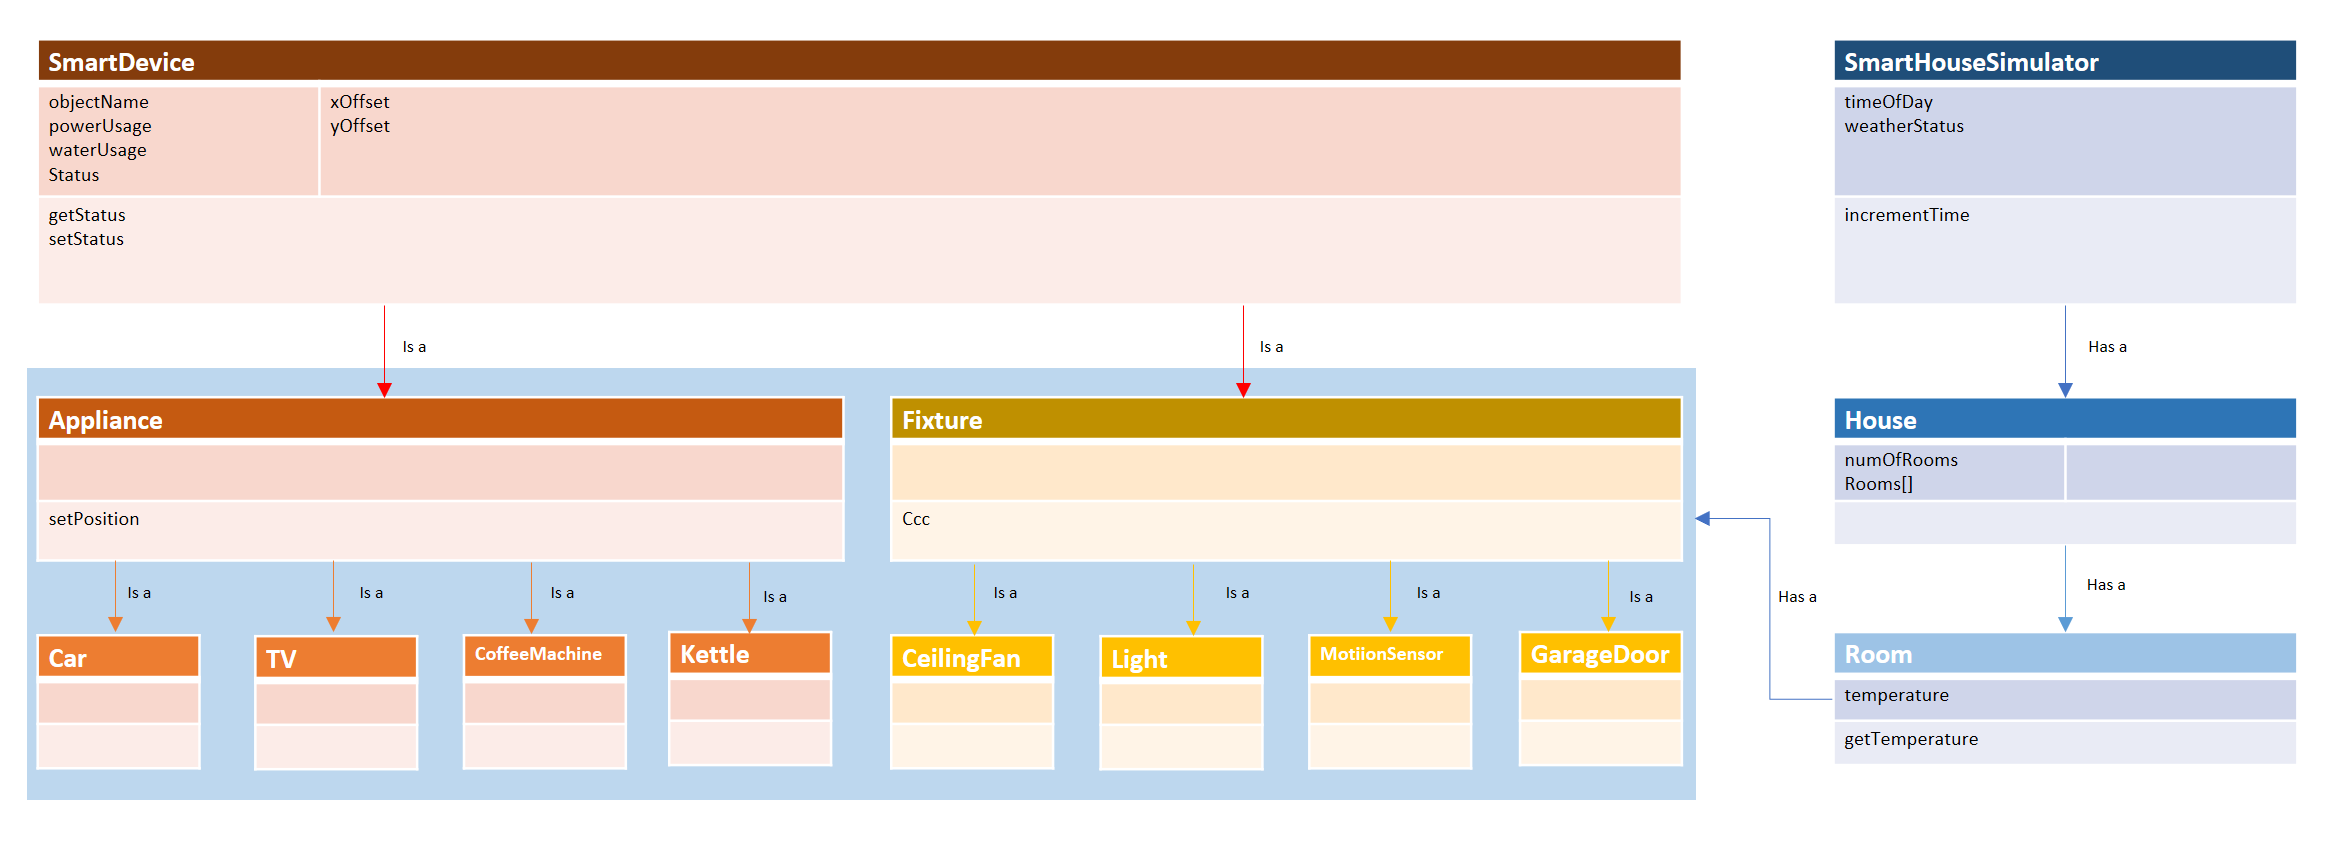
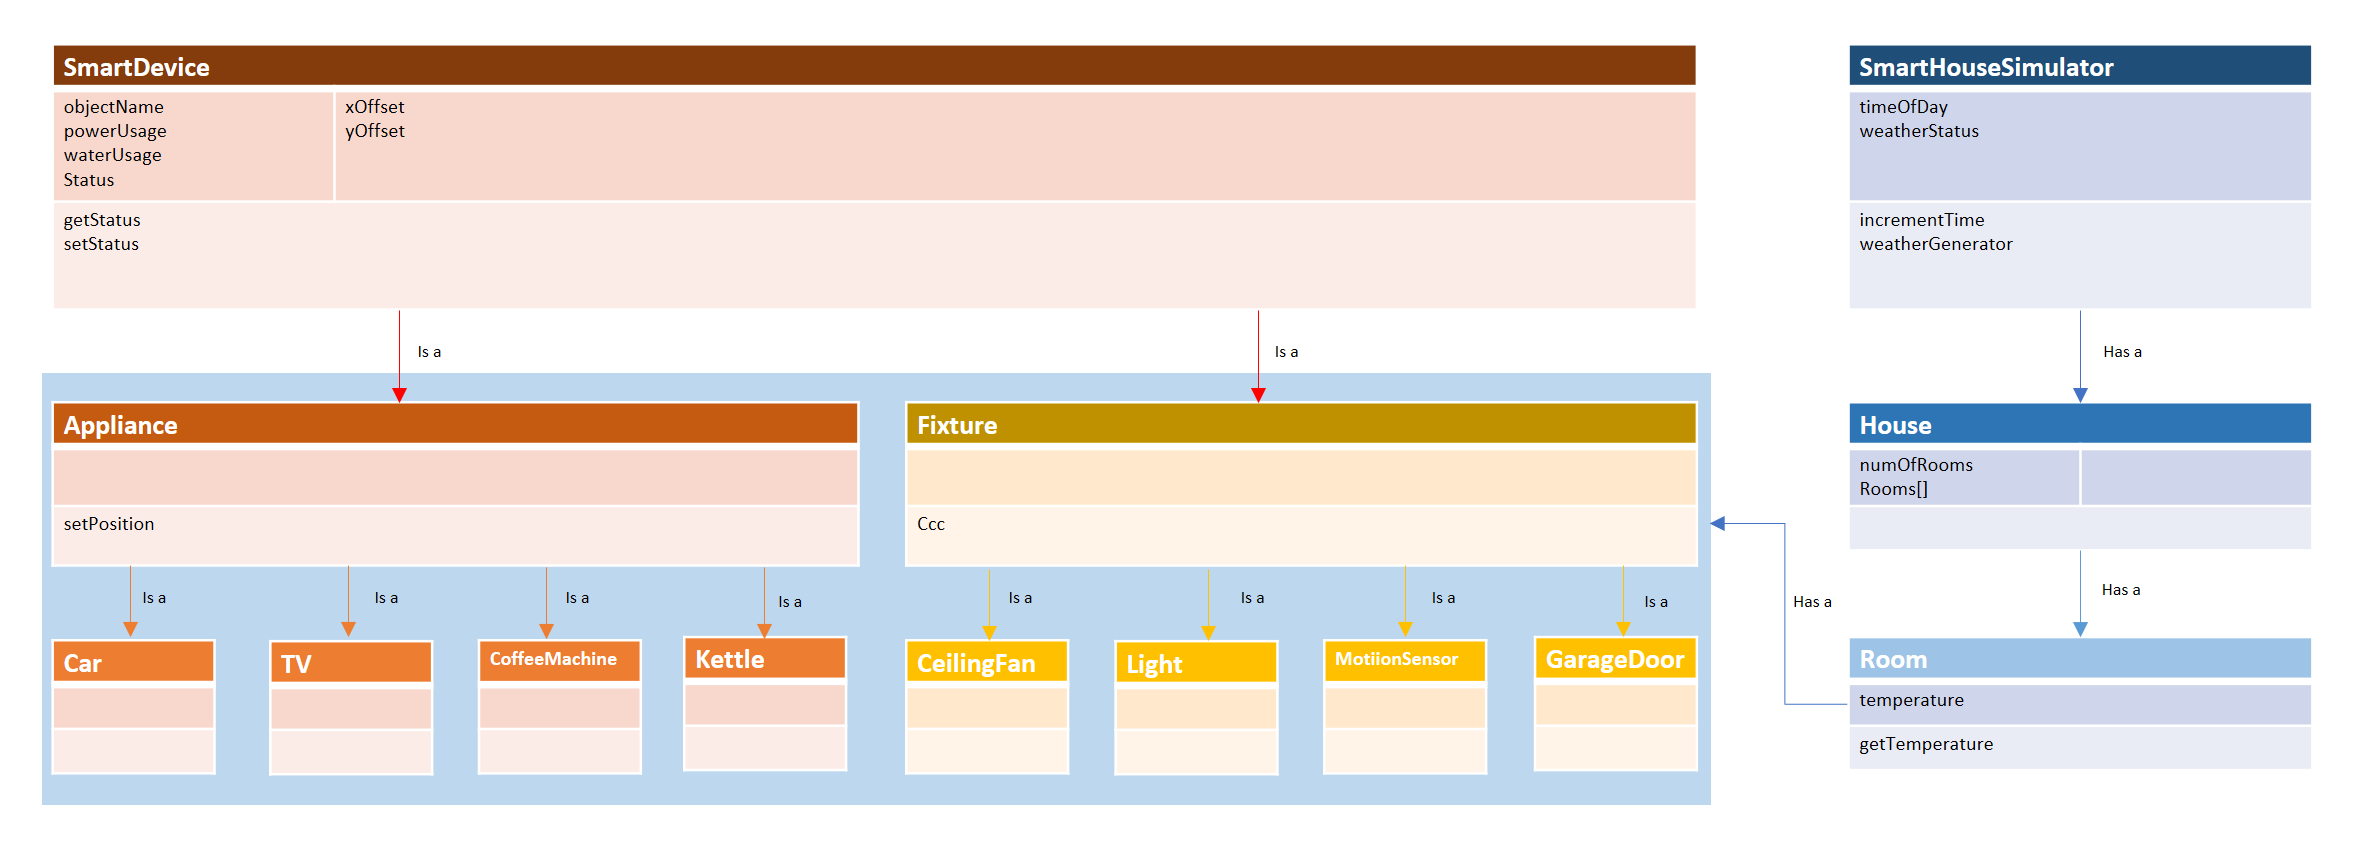
Updated UML started simulation methods

diff --git a/src/UserStoriesAndUMLDiagrams.java b/src/UserStoriesAndUMLDiagrams.java
@@ -1,7 +1,7 @@
 public class UserStoriesAndUMLDiagrams {
 
     /*
-    TODO User wants to be able to exit the simulation - BUGGY
+    User wants to be able to exit the simulation - DONE
         Estimate: 1 day
 
     TODO User wants to be able to see what the current room configuration is
@@ -10,20 +10,18 @@ public class UserStoriesAndUMLDiagrams {
     TODO User wants to track usage of electricity
         Estimate: 1 day
 
-    User wants to track usage of water - TODO
+    TODO User wants to track usage of water
         Estimate: 4 hours
 
-    A user wants their house to have an air con unit in every room - TODO
+    TODO A user wants their house to have an air con unit in every room
         Estimate: 2 days
 
-    A user doesn’t want sprinklers to activate while it’s raining - TODO
+    TODO A user doesn’t want sprinklers to activate while it’s raining
         Estimate: 1 day
 
-    A user wants to know when there is a potential intruder in the house - TODO
+    TODO user wants to know when there is a potential intruder in the house
         Estimate: 2 days
 
-    A user wants 2 bedrooms in their house - TODO
-        Estimate: 2 days
 
 
 

diff --git a/src/main/Main.java b/src/main/Main.java
@@ -5,7 +5,10 @@ import java.util.Scanner;
 public class Main {
 
     public static void main(String[] args) {
-        System.out.println("Welcome to Smart model.House Simulator. Select an option to continue: 1 = Run simulation. 2 = See room configuration 0 = Exit.");
+
+        //import configuration txt file TODO
+
+        System.out.println("Welcome to Smart House Simulator. Select an option to continue: 1 = Run simulation. 2 = See room configuration 0 = Exit.");
 
         Scanner scanner = new Scanner(System.in);
 
@@ -20,12 +23,14 @@ public class Main {
                     System.out.println("Exiting program...");
                     quit = true;
                     break;
-
                 case 1: //run simulation
                     System.out.println("Running Simulation...");
                     break;
-
                 case 2: //Show configuration
+                    System.out.println("Current configuration...");
+                    break;
+                default:
+                    System.out.println("Invalid choice. Try again.");
             }
         }
     }

diff --git a/src/main/SmartHouseSimulator.java b/src/main/SmartHouseSimulator.java
@@ -4,12 +4,36 @@ package main;
 import java.util.Scanner;
 
 public class SmartHouseSimulator {
+    //how should the simulation start each run
+    int timeOfDay = 0;
+    int weatherStatus = 0;
 
-    public static void main(String[] args) {
-
-        //import txt file for configuration
-
-        //initialise appliances
-        }
+    protected SmartHouseSimulator(int timeOfDay, int weatherStatus) {
 
     }
+
+    private int incrementTime(int timeOfDay) {
+        //1440 simulated minutes per simulation
+        for () {
+            ++timeOfDay;
+            return timeOfDay;
+        }
+    }
+
+    protected int weatherGenerator(int weatherStatus) {
+        //random number
+        //70% change of sun - if number between 1-70
+        if (randomNumber <= 70) {
+            weatherStatus = 1;
+            return weatherStatus;
+        } else if (randomNumber > 70) {
+            weatherStatus = 2;
+            return weatherStatus;
+        //30% chance of rain - if number between 71-100
+
+        }
+
+
+    }
+
+}
